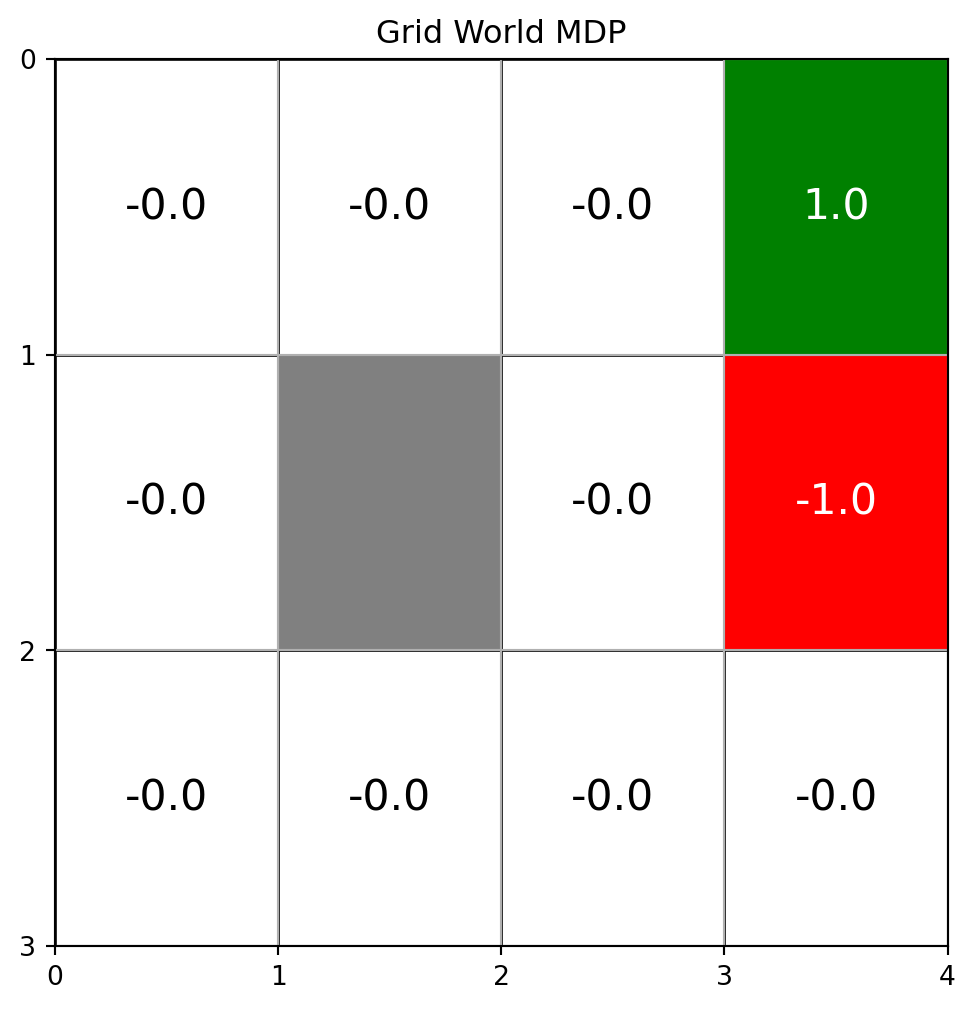
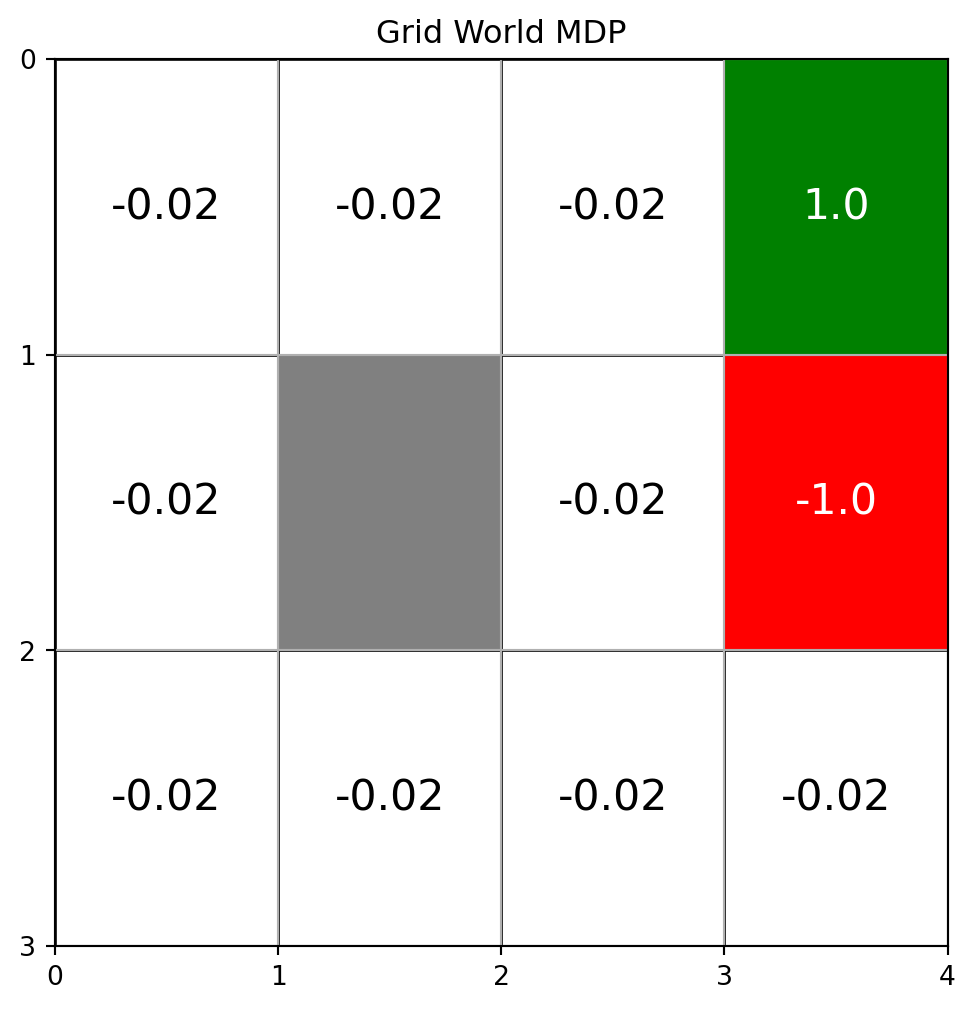
Minor

diff --git a/basic-mdp.html b/basic-mdp.html
@@ -142,7 +142,7 @@ window.Quarto = {
 <li>All other cells have an immediate reward of -0.2.</li>
 </ul>
 <p>This setup aligns with the description of the environment for the robot to navigate. Let me know if you need further elaboration or modifications to the model.</p>
-<div id="0a60adce" class="cell" data-execution_count="1">
+<div id="9d0ddf37" class="cell" data-execution_count="1">
 <div class="sourceCode cell-code" id="cb1"><pre class="sourceCode python code-with-copy"><code class="sourceCode python"><span id="cb1-1"><a href="#cb1-1" aria-hidden="true" tabindex="-1"></a><span class="im">import</span> numpy <span class="im">as</span> np</span>
 <span id="cb1-2"><a href="#cb1-2" aria-hidden="true" tabindex="-1"></a><span class="im">import</span> matplotlib.pyplot <span class="im">as</span> plt</span>
 <span id="cb1-3"><a href="#cb1-3" aria-hidden="true" tabindex="-1"></a><span class="im">import</span> matplotlib.patches <span class="im">as</span> patches</span>
@@ -178,7 +178,7 @@ window.Quarto = {
 <span id="cb1-33"><a href="#cb1-33" aria-hidden="true" tabindex="-1"></a>                        color<span class="op">=</span><span class="st">"white"</span>, fontsize<span class="op">=</span><span class="dv">16</span>, ha<span class="op">=</span><span class="st">'center'</span>, va<span class="op">=</span><span class="st">'center'</span>)</span>
 <span id="cb1-34"><a href="#cb1-34" aria-hidden="true" tabindex="-1"></a>            <span class="cf">else</span>:</span>
 <span id="cb1-35"><a href="#cb1-35" aria-hidden="true" tabindex="-1"></a>                ax.add_patch(patches.Rectangle((col, row), <span class="dv">1</span>, <span class="dv">1</span>, edgecolor<span class="op">=</span><span class="st">"black"</span>, facecolor<span class="op">=</span><span class="st">"white"</span>))</span>
-<span id="cb1-36"><a href="#cb1-36" aria-hidden="true" tabindex="-1"></a>                ax.text(col <span class="op">+</span> <span class="fl">0.5</span>, row <span class="op">+</span> <span class="fl">0.5</span>, <span class="ss">f"</span><span class="sc">{</span>grid[rows <span class="op">-</span> row <span class="op">-</span> <span class="dv">1</span>, col]<span class="sc">:.1f}</span><span class="ss">"</span>, </span>
+<span id="cb1-36"><a href="#cb1-36" aria-hidden="true" tabindex="-1"></a>                ax.text(col <span class="op">+</span> <span class="fl">0.5</span>, row <span class="op">+</span> <span class="fl">0.5</span>, <span class="ss">f"</span><span class="sc">{</span>grid[rows <span class="op">-</span> row <span class="op">-</span> <span class="dv">1</span>, col]<span class="sc">:.2f}</span><span class="ss">"</span>, </span>
 <span id="cb1-37"><a href="#cb1-37" aria-hidden="true" tabindex="-1"></a>                        fontsize<span class="op">=</span><span class="dv">16</span>, ha<span class="op">=</span><span class="st">'center'</span>, va<span class="op">=</span><span class="st">'center'</span>)</span>
 <span id="cb1-38"><a href="#cb1-38" aria-hidden="true" tabindex="-1"></a>    </span>
 <span id="cb1-39"><a href="#cb1-39" aria-hidden="true" tabindex="-1"></a>    ax.set_xticks(np.arange(<span class="dv">0</span>, cols<span class="op">+</span><span class="dv">1</span>, <span class="dv">1</span>))</span>
@@ -206,7 +206,7 @@ window.Quarto = {
 <li>“D” indicates moving down.</li>
 </ul>
 <p>The gray cell remains blocked, and the sink states retain their colors with no actions because they are terminal states.</p>
-<div id="fd8c5d9b" class="cell" data-execution_count="2">
+<div id="a9be1438" class="cell" data-execution_count="2">
 <div class="sourceCode cell-code" id="cb2"><pre class="sourceCode python code-with-copy"><code class="sourceCode python"><span id="cb2-1"><a href="#cb2-1" aria-hidden="true" tabindex="-1"></a><span class="co"># Define directions</span></span>
 <span id="cb2-2"><a href="#cb2-2" aria-hidden="true" tabindex="-1"></a>actions_map <span class="op">=</span> {<span class="st">'L'</span>: (<span class="op">-</span><span class="dv">1</span>, <span class="dv">0</span>), <span class="st">'R'</span>: (<span class="dv">1</span>, <span class="dv">0</span>), <span class="st">'U'</span>: (<span class="dv">0</span>, <span class="dv">1</span>), <span class="st">'D'</span>: (<span class="dv">0</span>, <span class="op">-</span><span class="dv">1</span>)}</span>
 <span id="cb2-3"><a href="#cb2-3" aria-hidden="true" tabindex="-1"></a></span>
@@ -256,7 +256,7 @@ window.Quarto = {
 </div>
 </div>
 </div>
-<div id="c75bc4a2" class="cell" data-execution_count="3">
+<div id="286fca8a" class="cell" data-execution_count="3">
 <div class="sourceCode cell-code" id="cb3"><pre class="sourceCode python code-with-copy"><code class="sourceCode python"><span id="cb3-1"><a href="#cb3-1" aria-hidden="true" tabindex="-1"></a><span class="co"># Reimport necessary libraries and redefine variables due to environment reset</span></span>
 <span id="cb3-2"><a href="#cb3-2" aria-hidden="true" tabindex="-1"></a><span class="im">import</span> numpy <span class="im">as</span> np</span>
 <span id="cb3-3"><a href="#cb3-3" aria-hidden="true" tabindex="-1"></a></span>
@@ -390,7 +390,7 @@ V(s) = R(s) + \gamma \sum_{s'} P(s, s') V(s')
 \]</span></p>
 <p>Where: - <span class="math inline">\(V(s)\)</span> is the value of state <span class="math inline">\(s\)</span>, - <span class="math inline">\(R(s)\)</span> is the immediate reward for state <span class="math inline">\(s\)</span>, - <span class="math inline">\(\gamma\)</span> is the discount factor, - <span class="math inline">\(P(s, s')\)</span> is the transition probability from state <span class="math inline">\(s\)</span> to state <span class="math inline">\(s'\)</span>.</p>
 <p>Let me write the function for this:</p>
-<div id="ed0f726c" class="cell" data-execution_count="4">
+<div id="0cd3eb9e" class="cell" data-execution_count="4">
 <div class="sourceCode cell-code" id="cb4"><pre class="sourceCode python code-with-copy"><code class="sourceCode python"><span id="cb4-1"><a href="#cb4-1" aria-hidden="true" tabindex="-1"></a><span class="kw">def</span> build_bellman_equations(policy, reward_grid, transition_matrices, sink_states, gamma<span class="op">=</span><span class="fl">0.9</span>):</span>
 <span id="cb4-2"><a href="#cb4-2" aria-hidden="true" tabindex="-1"></a>    <span class="co">"""</span></span>
 <span id="cb4-3"><a href="#cb4-3" aria-hidden="true" tabindex="-1"></a><span class="co">    Constructs the Bellman value equations based on a policy, rewards, and transition matrices.</span></span>
@@ -522,7 +522,7 @@ V = R + \gamma P V
 <li>The resulting values <span class="math inline">\(V(s)\)</span> for each state are stored in <code>state_values_grid</code>, which gives the expected return for starting in each state under the given policy.</li>
 </ul>
 <p>This method solves the Bellman equations for all states simultaneously.</p>
-<div id="c5251e5b" class="cell" data-execution_count="5">
+<div id="e0674b3c" class="cell" data-execution_count="5">
 <div class="sourceCode cell-code" id="cb6"><pre class="sourceCode python code-with-copy"><code class="sourceCode python"><span id="cb6-1"><a href="#cb6-1" aria-hidden="true" tabindex="-1"></a><span class="kw">def</span> solve_bellman_with_sinks(policy, reward_grid, transition_matrices, sink_states, gamma<span class="op">=</span><span class="fl">0.9</span>):</span>
 <span id="cb6-2"><a href="#cb6-2" aria-hidden="true" tabindex="-1"></a>    rows, cols <span class="op">=</span> reward_grid.shape</span>
 <span id="cb6-3"><a href="#cb6-3" aria-hidden="true" tabindex="-1"></a>    n_states <span class="op">=</span> rows <span class="op">*</span> cols</span>
@@ -631,7 +631,7 @@ V = R + \gamma P V
 <li>The optimal policy is a dictionary mapping states to actions that maximize the expected return.</li>
 <li>The state values represent the expected return for each state under the optimal policy.</li>
 </ul>
-<div id="140f0699" class="cell" data-execution_count="6">
+<div id="0c1976f6" class="cell" data-execution_count="6">
 <div class="sourceCode cell-code" id="cb7"><pre class="sourceCode python code-with-copy"><code class="sourceCode python"><span id="cb7-1"><a href="#cb7-1" aria-hidden="true" tabindex="-1"></a><span class="kw">def</span> value_iteration(reward_grid, transition_matrices, sink_states, gamma<span class="op">=</span><span class="fl">0.9</span>, tol<span class="op">=</span><span class="fl">1e-6</span>):</span>
 <span id="cb7-2"><a href="#cb7-2" aria-hidden="true" tabindex="-1"></a>    rows, cols <span class="op">=</span> reward_grid.shape</span>
 <span id="cb7-3"><a href="#cb7-3" aria-hidden="true" tabindex="-1"></a>    n_states <span class="op">=</span> rows <span class="op">*</span> cols</span>
